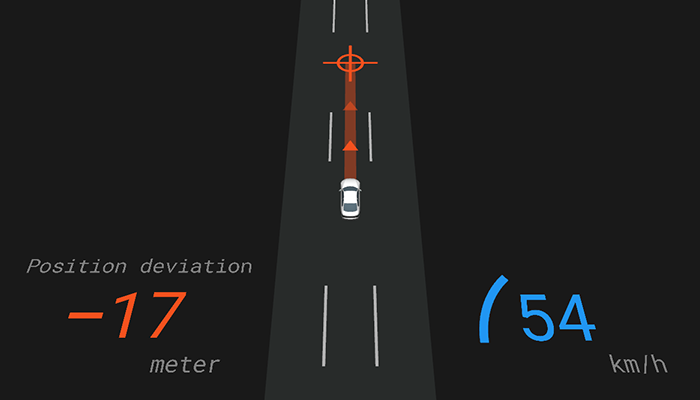
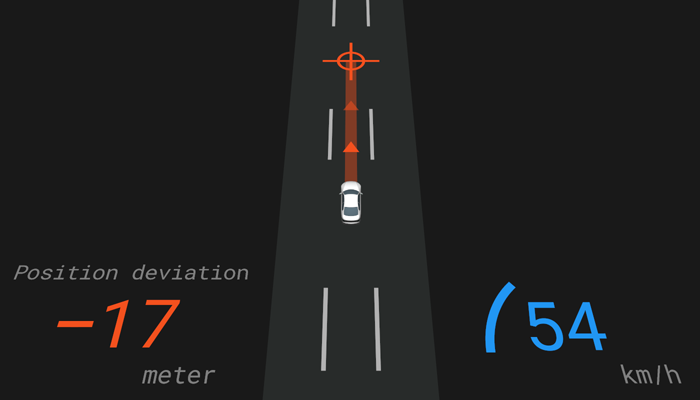
Increase line thickness

diff --git a/vehicle_hmi/source/line_markings.cpp b/vehicle_hmi/source/line_markings.cpp
@@ -9,7 +9,7 @@ namespace {
 
 std::vector<float> build_line_markings(int length = 200)
 {
-  float line_width = 0.2f;
+  float line_width = 0.3f;
   float line_length = 6.0f;
   float line_gap = 12.0f;
   float lane_width = 3.6f;
